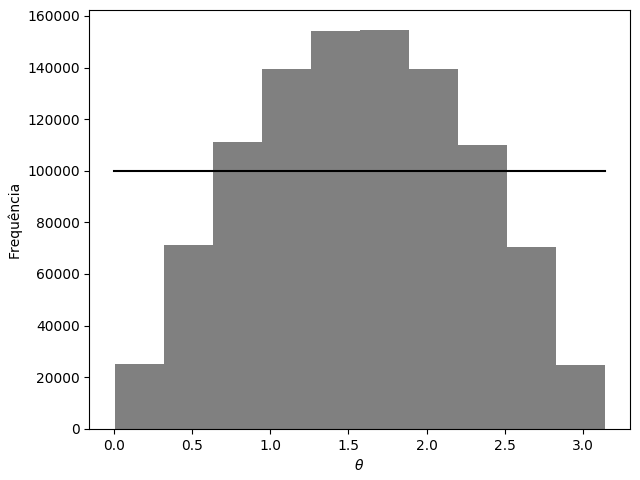
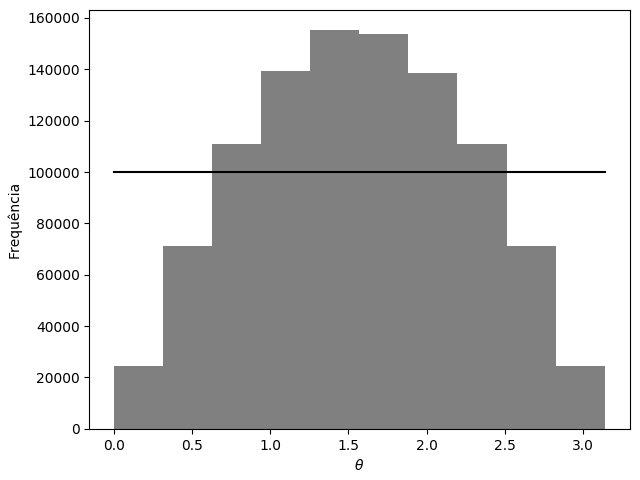
.

diff --git a/exposicao/theta_and_phi.py b/exposicao/theta_and_phi.py
@@ -6,18 +6,21 @@ import numpy as np
 import matplotlib.pyplot as plt
 
 MAX = 10**6
+BINS = 10
 
-ctheta = lambda x: 2*x - 1
-theta = lambda x: math.acos(ctheta(x))
+r = lambda: random.random()
+lmap = lambda arr, fn: list(map(fn, arr))
+
+theta = lambda x: math.acos(2*x - 1)
 phi = lambda x: 2 * math.pi * x
 
-run = lambda fn: list(map(fn, map(lambda x: random.random(), range(MAX))))
+run = lambda fn: lmap(lmap(range(MAX), lambda x: r()), fn)
 
-n = MAX / 10
+n = MAX / BINS # normalization factor
 
 thetas = run(theta)
-plt.hist(thetas, color='grey')
-plt.plot([0, math.pi], [n, n], color='k')
+plt.hist(thetas, color='grey', bins=BINS)
+plt.plot([0, math.pi], [n, n], color='k') # this would be an ideal uniform pdf
 plt.ylabel('Frequência')
 plt.xlabel('$\\theta$')
 
@@ -27,12 +30,10 @@ plt.savefig('theta.png')
 plt.clf()
 
 phis = run(phi)
-plt.hist(phis, color='grey')
-plt.plot([0, 2*math.pi], [n, n], color='k')
+plt.hist(phis, color='grey', bins=BINS)
+plt.plot([0, 2*math.pi], [n, n], color='k') # this would be an ideal uniform pdf
 plt.ylabel('Frequência')
 plt.xlabel('$\\phi$')
 
 plt.tight_layout(0.5)
 plt.savefig('phi.png')
-
-exit()
